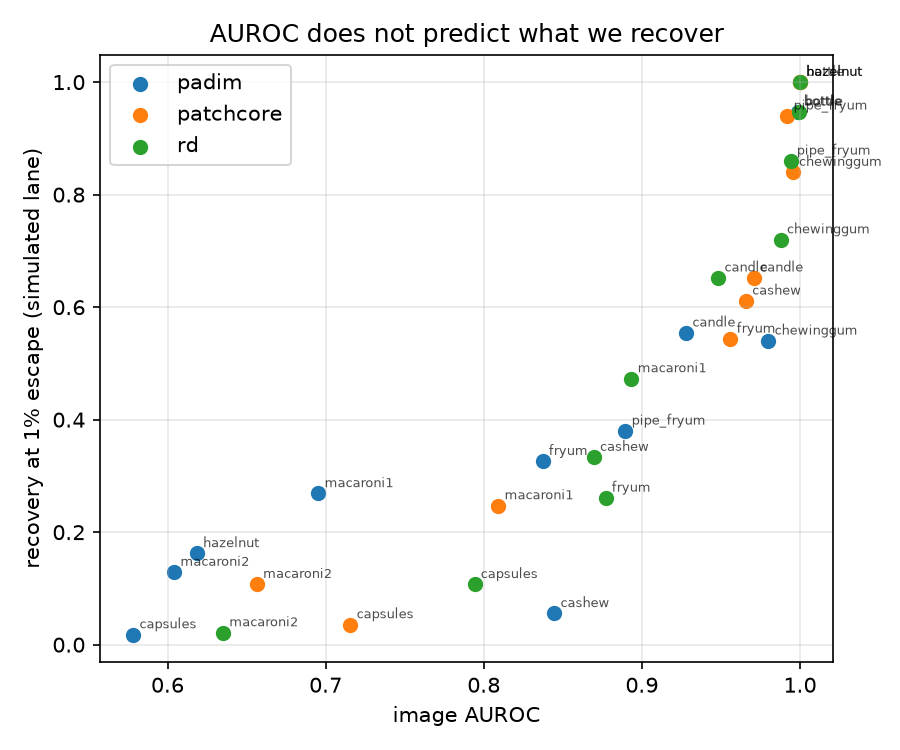
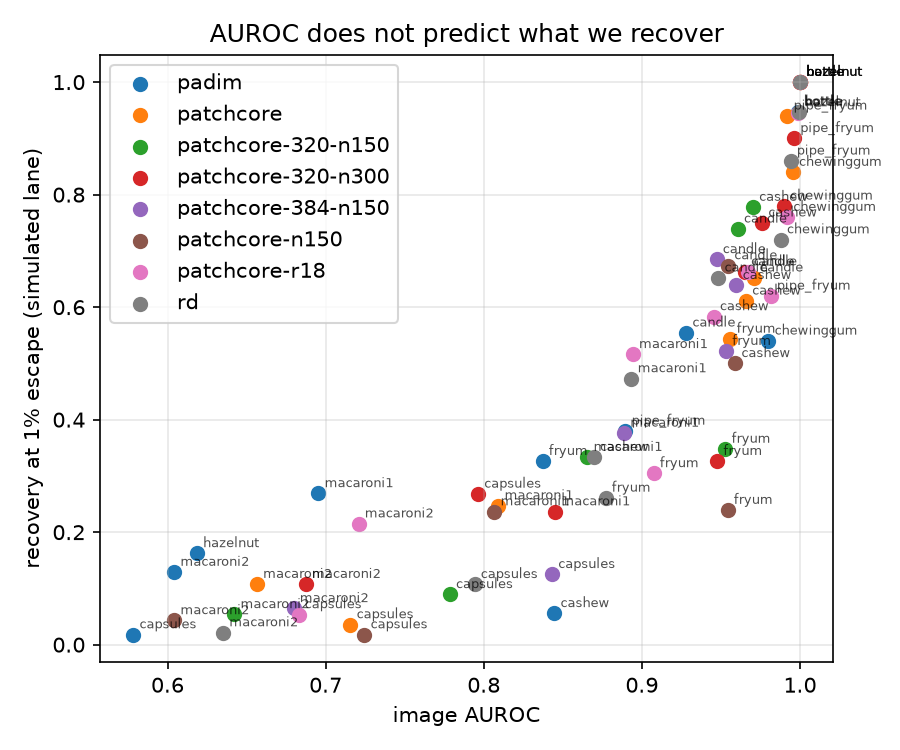
docs: add patchcore resolution and backbone variants

diff --git a/docs/results.md b/docs/results.md
@@ -17,33 +17,71 @@ recovery (auto-good), escape (defects auto-recovered), review (sent to a human).
 |---|---|---|---|---|---|---|---|---|---|---|---|---|---|---|---|---|
 | mvtec | bottle | padim | 20/63 | 1.00 | 0.95 | 0.95 | 1.00 | 0.95 | 0.95 | 0.95 | 1.00 | 0.80 | 0.94 | 0.94 | 1.00 | 10.70 |
 | mvtec | bottle | patchcore | 20/63 | 1.00 | 1.00 | 1.00 | 1.00 | 0.95 | 1.00 | 1.00 | 1.00 | 0.80 | 1.00 | 1.00 | 1.00 | 18.70 |
+| mvtec | bottle | patchcore-320-n300 | 20/63 | 1.00 | 1.00 | 1.00 | 1.00 | 0.95 | 1.00 | 1.00 | 1.00 | 0.80 | 1.00 | 1.00 | 1.00 | 30.70 |
+| mvtec | bottle | patchcore-r18 | 20/63 | 1.00 | 1.00 | 1.00 | 1.00 | 0.95 | 1.00 | 1.00 | 1.00 | 0.80 | 1.00 | 1.00 | 1.00 | 11.30 |
 | mvtec | bottle | rd | 20/63 | 1.00 | 0.95 | 0.95 | 1.00 | 0.95 | 0.95 | 0.95 | 1.00 | 0.80 | 0.94 | 0.94 | 1.00 | 128.20 |
 | mvtec | hazelnut | padim | 40/70 | 0.62 | 0.15 | 0.15 | 0.30 | 0.93 | 0.16 | 0.16 | 0.32 | 0.78 | 0.10 | 0.10 | 0.29 | 13.00 |
 | mvtec | hazelnut | patchcore | 40/70 | 1.00 | 1.00 | 1.00 | 1.00 | 0.93 | 1.00 | 1.00 | 1.00 | 0.78 | 1.00 | 1.00 | 1.00 | 25.80 |
+| mvtec | hazelnut | patchcore-320-n300 | 40/70 | 1.00 | 1.00 | 1.00 | 1.00 | 0.93 | 1.00 | 1.00 | 1.00 | 0.78 | 1.00 | 1.00 | 1.00 | 36.00 |
+| mvtec | hazelnut | patchcore-r18 | 40/70 | 1.00 | 0.95 | 0.95 | 1.00 | 0.93 | 0.95 | 0.95 | 1.00 | 0.78 | 0.94 | 0.94 | 1.00 | 14.40 |
 | mvtec | hazelnut | rd | 40/70 | 1.00 | 1.00 | 1.00 | 1.00 | 0.93 | 1.00 | 1.00 | 1.00 | 0.78 | 1.00 | 1.00 | 1.00 | 130.40 |
 | visa | candle | padim | 100/100 | 0.93 | 0.55 | 0.58 | 0.68 | 0.92 | 0.54 | 0.55 | 0.66 | 0.95 | 0.56 | 0.58 | 0.67 | 8.90 |
 | visa | candle | patchcore | 100/100 | 0.97 | 0.33 | 0.66 | 0.93 | 0.92 | 0.34 | 0.65 | 0.92 | 0.95 | 0.33 | 0.65 | 0.93 | 37.30 |
+| visa | candle | patchcore-320-n150 | 100/100 | 0.96 | 0.38 | 0.75 | 0.85 | 0.92 | 0.38 | 0.74 | 0.85 | 0.95 | 0.38 | 0.74 | 0.84 | 20.20 |
+| visa | candle | patchcore-320-n300 | 100/100 | 0.97 | 0.60 | 0.68 | 0.86 | 0.92 | 0.58 | 0.66 | 0.86 | 0.95 | 0.58 | 0.66 | 0.85 | 31.10 |
+| visa | candle | patchcore-384-n150 | 100/100 | 0.95 | 0.52 | 0.67 | 0.82 | 0.92 | 0.52 | 0.68 | 0.82 | 0.95 | 0.51 | 0.66 | 0.81 | 38.20 |
+| visa | candle | patchcore-n150 | 100/100 | 0.95 | 0.44 | 0.69 | 0.85 | 0.92 | 0.42 | 0.67 | 0.85 | 0.95 | 0.43 | 0.67 | 0.84 | 13.80 |
+| visa | candle | patchcore-r18 | 100/100 | 0.97 | 0.58 | 0.67 | 0.81 | 0.92 | 0.57 | 0.66 | 0.80 | 0.95 | 0.59 | 0.68 | 0.80 | 17.60 |
 | visa | candle | rd | 100/100 | 0.95 | 0.42 | 0.67 | 0.78 | 0.92 | 0.43 | 0.65 | 0.77 | 0.95 | 0.42 | 0.65 | 0.77 | 123.00 |
 | visa | capsules | padim | 60/100 | 0.58 | 0.00 | 0.02 | 0.12 | 0.93 | 0.00 | 0.02 | 0.11 | 0.97 | 0.00 | 0.02 | 0.10 | 10.10 |
 | visa | capsules | patchcore | 60/100 | 0.72 | 0.02 | 0.03 | 0.05 | 0.93 | 0.02 | 0.04 | 0.05 | 0.97 | 0.02 | 0.03 | 0.03 | 25.70 |
+| visa | capsules | patchcore-320-n150 | 60/100 | 0.78 | 0.03 | 0.08 | 0.18 | 0.93 | 0.04 | 0.09 | 0.18 | 0.97 | 0.03 | 0.07 | 0.16 | 21.70 |
+| visa | capsules | patchcore-320-n300 | 60/100 | 0.80 | 0.27 | 0.27 | 0.33 | 0.93 | 0.27 | 0.27 | 0.34 | 0.97 | 0.24 | 0.24 | 0.31 | 31.80 |
+| visa | capsules | patchcore-384-n150 | 60/100 | 0.84 | 0.02 | 0.12 | 0.25 | 0.93 | 0.02 | 0.12 | 0.25 | 0.97 | 0.02 | 0.09 | 0.22 | 39.80 |
+| visa | capsules | patchcore-n150 | 60/100 | 0.72 | 0.02 | 0.02 | 0.15 | 0.93 | 0.02 | 0.02 | 0.16 | 0.97 | 0.02 | 0.02 | 0.14 | 12.60 |
+| visa | capsules | patchcore-r18 | 60/100 | 0.68 | 0.02 | 0.05 | 0.10 | 0.93 | 0.02 | 0.05 | 0.09 | 0.97 | 0.00 | 0.03 | 0.09 | 14.00 |
 | visa | capsules | rd | 60/100 | 0.79 | 0.10 | 0.10 | 0.13 | 0.93 | 0.11 | 0.11 | 0.14 | 0.97 | 0.09 | 0.09 | 0.12 | 131.50 |
 | visa | cashew | padim | 50/100 | 0.84 | 0.06 | 0.20 | 0.28 | 0.72 | 0.00 | 0.06 | 0.17 | 0.78 | 0.03 | 0.15 | 0.26 | 10.90 |
 | visa | cashew | patchcore | 50/100 | 0.97 | 0.66 | 0.66 | 0.80 | 0.72 | 0.61 | 0.61 | 0.78 | 0.78 | 0.62 | 0.62 | 0.77 | 25.10 |
+| visa | cashew | patchcore-320-n150 | 50/100 | 0.97 | 0.44 | 0.78 | 0.84 | 0.72 | 0.39 | 0.78 | 0.81 | 0.78 | 0.38 | 0.77 | 0.82 | 21.30 |
+| visa | cashew | patchcore-320-n300 | 50/100 | 0.98 | 0.52 | 0.82 | 0.88 | 0.72 | 0.53 | 0.75 | 0.83 | 0.78 | 0.46 | 0.77 | 0.85 | 33.00 |
+| visa | cashew | patchcore-384-n150 | 50/100 | 0.96 | 0.24 | 0.66 | 0.78 | 0.72 | 0.17 | 0.64 | 0.75 | 0.78 | 0.18 | 0.67 | 0.77 | 40.50 |
+| visa | cashew | patchcore-n150 | 50/100 | 0.96 | 0.48 | 0.56 | 0.74 | 0.72 | 0.42 | 0.50 | 0.72 | 0.78 | 0.44 | 0.51 | 0.72 | 14.80 |
+| visa | cashew | patchcore-r18 | 50/100 | 0.95 | 0.40 | 0.64 | 0.70 | 0.72 | 0.33 | 0.58 | 0.67 | 0.78 | 0.33 | 0.59 | 0.67 | 12.90 |
 | visa | cashew | rd | 50/100 | 0.87 | 0.38 | 0.38 | 0.52 | 0.72 | 0.33 | 0.33 | 0.50 | 0.78 | 0.41 | 0.41 | 0.54 | 126.80 |
 | visa | chewinggum | padim | 50/100 | 0.98 | 0.46 | 0.54 | 0.92 | 1.00 | 0.46 | 0.54 | 0.92 | 0.86 | 0.47 | 0.53 | 0.91 | 10.40 |
 | visa | chewinggum | patchcore | 50/100 | 1.00 | 0.80 | 0.84 | 1.00 | 1.00 | 0.80 | 0.84 | 1.00 | 0.86 | 0.79 | 0.84 | 1.00 | 24.60 |
+| visa | chewinggum | patchcore-320-n300 | 50/100 | 0.99 | 0.36 | 0.78 | 1.00 | 1.00 | 0.36 | 0.78 | 1.00 | 0.86 | 0.37 | 0.77 | 1.00 | 37.20 |
+| visa | chewinggum | patchcore-r18 | 50/100 | 0.99 | 0.62 | 0.76 | 1.00 | 1.00 | 0.62 | 0.76 | 1.00 | 0.86 | 0.60 | 0.74 | 1.00 | 12.90 |
 | visa | chewinggum | rd | 50/100 | 0.99 | 0.44 | 0.72 | 0.98 | 1.00 | 0.44 | 0.72 | 0.98 | 0.86 | 0.40 | 0.70 | 0.98 | 125.70 |
 | visa | fryum | padim | 50/100 | 0.84 | 0.36 | 0.36 | 0.44 | 0.92 | 0.33 | 0.33 | 0.41 | 0.98 | 0.35 | 0.35 | 0.43 | 9.40 |
 | visa | fryum | patchcore | 50/100 | 0.96 | 0.46 | 0.56 | 0.68 | 0.92 | 0.43 | 0.54 | 0.65 | 0.98 | 0.47 | 0.57 | 0.67 | 22.50 |
+| visa | fryum | patchcore-320-n150 | 50/100 | 0.95 | 0.08 | 0.36 | 0.72 | 0.92 | 0.07 | 0.35 | 0.72 | 0.98 | 0.08 | 0.37 | 0.73 | 21.20 |
+| visa | fryum | patchcore-320-n300 | 50/100 | 0.95 | 0.22 | 0.36 | 0.70 | 0.92 | 0.22 | 0.33 | 0.70 | 0.98 | 0.22 | 0.37 | 0.71 | 33.40 |
+| visa | fryum | patchcore-384-n150 | 50/100 | 0.95 | 0.08 | 0.54 | 0.74 | 0.92 | 0.09 | 0.52 | 0.74 | 0.98 | 0.08 | 0.55 | 0.76 | 38.40 |
+| visa | fryum | patchcore-n150 | 50/100 | 0.95 | 0.26 | 0.28 | 0.76 | 0.92 | 0.22 | 0.24 | 0.76 | 0.98 | 0.27 | 0.29 | 0.78 | 12.50 |
+| visa | fryum | patchcore-r18 | 50/100 | 0.91 | 0.12 | 0.32 | 0.44 | 0.92 | 0.11 | 0.30 | 0.43 | 0.98 | 0.12 | 0.33 | 0.45 | 13.20 |
 | visa | fryum | rd | 50/100 | 0.88 | 0.20 | 0.24 | 0.52 | 0.92 | 0.22 | 0.26 | 0.54 | 0.98 | 0.20 | 0.24 | 0.53 | 124.50 |
 | visa | macaroni1 | padim | 100/100 | 0.70 | 0.20 | 0.28 | 0.38 | 0.93 | 0.19 | 0.27 | 0.37 | 0.99 | 0.20 | 0.28 | 0.38 | 7.90 |
 | visa | macaroni1 | patchcore | 100/100 | 0.81 | 0.16 | 0.24 | 0.38 | 0.93 | 0.16 | 0.25 | 0.39 | 0.99 | 0.16 | 0.24 | 0.38 | 35.10 |
+| visa | macaroni1 | patchcore-320-n150 | 100/100 | 0.87 | 0.22 | 0.33 | 0.58 | 0.93 | 0.24 | 0.33 | 0.56 | 0.99 | 0.22 | 0.33 | 0.58 | 20.70 |
+| visa | macaroni1 | patchcore-320-n300 | 100/100 | 0.85 | 0.21 | 0.23 | 0.51 | 0.93 | 0.22 | 0.24 | 0.51 | 0.99 | 0.21 | 0.23 | 0.51 | 30.90 |
+| visa | macaroni1 | patchcore-384-n150 | 100/100 | 0.89 | 0.33 | 0.39 | 0.63 | 0.93 | 0.32 | 0.38 | 0.61 | 0.99 | 0.32 | 0.38 | 0.63 | 36.10 |
+| visa | macaroni1 | patchcore-n150 | 100/100 | 0.81 | 0.13 | 0.24 | 0.37 | 0.93 | 0.13 | 0.24 | 0.35 | 0.99 | 0.13 | 0.24 | 0.36 | 12.60 |
+| visa | macaroni1 | patchcore-r18 | 100/100 | 0.89 | 0.27 | 0.53 | 0.61 | 0.93 | 0.26 | 0.52 | 0.60 | 0.99 | 0.27 | 0.54 | 0.62 | 17.40 |
 | visa | macaroni1 | rd | 100/100 | 0.89 | 0.31 | 0.48 | 0.64 | 0.93 | 0.31 | 0.47 | 0.62 | 0.99 | 0.31 | 0.48 | 0.64 | 123.10 |
 | visa | macaroni2 | padim | 100/100 | 0.60 | 0.12 | 0.14 | 0.15 | 0.93 | 0.11 | 0.13 | 0.14 | 0.96 | 0.10 | 0.12 | 0.14 | 8.00 |
 | visa | macaroni2 | patchcore | 100/100 | 0.66 | 0.02 | 0.11 | 0.15 | 0.93 | 0.02 | 0.11 | 0.15 | 0.96 | 0.02 | 0.10 | 0.15 | 35.50 |
+| visa | macaroni2 | patchcore-320-n150 | 100/100 | 0.64 | 0.00 | 0.06 | 0.21 | 0.93 | 0.00 | 0.05 | 0.20 | 0.96 | 0.00 | 0.05 | 0.20 | 20.00 |
+| visa | macaroni2 | patchcore-320-n300 | 100/100 | 0.69 | 0.00 | 0.12 | 0.27 | 0.93 | 0.00 | 0.11 | 0.26 | 0.96 | 0.00 | 0.10 | 0.26 | 31.20 |
+| visa | macaroni2 | patchcore-384-n150 | 100/100 | 0.68 | 0.00 | 0.07 | 0.12 | 0.93 | 0.00 | 0.06 | 0.12 | 0.96 | 0.00 | 0.06 | 0.11 | 34.20 |
+| visa | macaroni2 | patchcore-n150 | 100/100 | 0.60 | 0.03 | 0.05 | 0.17 | 0.93 | 0.02 | 0.04 | 0.16 | 0.96 | 0.02 | 0.04 | 0.17 | 11.80 |
+| visa | macaroni2 | patchcore-r18 | 100/100 | 0.72 | 0.04 | 0.23 | 0.31 | 0.93 | 0.03 | 0.22 | 0.30 | 0.96 | 0.03 | 0.22 | 0.30 | 18.00 |
 | visa | macaroni2 | rd | 100/100 | 0.64 | 0.00 | 0.02 | 0.14 | 0.93 | 0.00 | 0.02 | 0.14 | 0.96 | 0.00 | 0.02 | 0.15 | 125.40 |
 | visa | pipe_fryum | padim | 50/100 | 0.89 | 0.34 | 0.38 | 0.54 | 1.00 | 0.34 | 0.38 | 0.54 | 1.00 | 0.34 | 0.38 | 0.54 | 9.80 |
 | visa | pipe_fryum | patchcore | 50/100 | 0.99 | 0.68 | 0.94 | 0.94 | 1.00 | 0.68 | 0.94 | 0.94 | 1.00 | 0.68 | 0.94 | 0.94 | 22.80 |
+| visa | pipe_fryum | patchcore-320-n300 | 50/100 | 1.00 | 0.86 | 0.90 | 0.98 | 1.00 | 0.86 | 0.90 | 0.98 | 1.00 | 0.86 | 0.90 | 0.98 | 31.70 |
+| visa | pipe_fryum | patchcore-r18 | 50/100 | 0.98 | 0.34 | 0.62 | 0.96 | 1.00 | 0.34 | 0.62 | 0.96 | 1.00 | 0.34 | 0.62 | 0.96 | 12.60 |
 | visa | pipe_fryum | rd | 50/100 | 0.99 | 0.86 | 0.86 | 0.96 | 1.00 | 0.86 | 0.86 | 0.96 | 1.00 | 0.86 | 0.86 | 0.96 | 133.30 |
 
 ## Calibrated band on the lane (held-out folds, escape target 1%)
@@ -54,60 +92,136 @@ recovery (auto-good), escape (defects auto-recovered), review (sent to a human).
 | mvtec | bottle | padim | pca | 16 | 0.93 | 0.02 | 0.00 | 0.98 | 0.06 |
 | mvtec | bottle | patchcore | template | 19 | 1.00 | 0.03 | 0.00 | 1.00 | 0.06 |
 | mvtec | bottle | patchcore | pca | 16 | 1.00 | 0.03 | 0.00 | 1.00 | 0.06 |
+| mvtec | bottle | patchcore-320-n300 | template | 19 | 1.00 | 0.02 | 0.00 | 1.00 | 0.06 |
+| mvtec | bottle | patchcore-320-n300 | pca | 16 | 1.00 | 0.02 | 0.00 | 1.00 | 0.06 |
+| mvtec | bottle | patchcore-r18 | template | 19 | 1.00 | 0.02 | 0.00 | 1.00 | 0.06 |
+| mvtec | bottle | patchcore-r18 | pca | 16 | 1.00 | 0.02 | 0.00 | 1.00 | 0.06 |
 | mvtec | bottle | rd | template | 19 | 1.00 | 0.02 | 0.00 | 1.00 | 0.06 |
 | mvtec | bottle | rd | pca | 16 | 0.93 | 0.02 | 0.00 | 0.99 | 0.06 |
 | mvtec | hazelnut | padim | template | 37 | 0.16 | 0.01 | 0.89 | 0.83 | 0.05 |
 | mvtec | hazelnut | padim | pca | 31 | 0.10 | 0.01 | 0.90 | 0.89 | 0.05 |
 | mvtec | hazelnut | patchcore | template | 37 | 1.00 | 0.01 | 0.00 | 1.00 | 0.05 |
 | mvtec | hazelnut | patchcore | pca | 31 | 1.00 | 0.01 | 0.00 | 1.00 | 0.05 |
+| mvtec | hazelnut | patchcore-320-n300 | template | 37 | 1.00 | 0.03 | 0.00 | 1.00 | 0.05 |
+| mvtec | hazelnut | patchcore-320-n300 | pca | 31 | 1.00 | 0.03 | 0.00 | 1.00 | 0.05 |
+| mvtec | hazelnut | patchcore-r18 | template | 37 | 0.95 | 0.01 | 0.01 | 0.99 | 0.05 |
+| mvtec | hazelnut | patchcore-r18 | pca | 31 | 0.93 | 0.01 | 0.01 | 0.99 | 0.05 |
 | mvtec | hazelnut | rd | template | 37 | 1.00 | 0.01 | 0.00 | 1.00 | 0.05 |
 | mvtec | hazelnut | rd | pca | 31 | 1.00 | 0.01 | 0.00 | 1.00 | 0.05 |
 | visa | candle | padim | template | 92 | 0.55 | 0.02 | 0.41 | 0.97 | 0.04 |
 | visa | candle | padim | pca | 95 | 0.57 | 0.02 | 0.38 | 0.96 | 0.04 |
 | visa | candle | patchcore | template | 92 | 0.38 | 0.01 | 0.41 | 0.96 | 0.04 |
 | visa | candle | patchcore | pca | 95 | 0.37 | 0.01 | 0.42 | 0.96 | 0.04 |
+| visa | candle | patchcore-320-n150 | template | 92 | 0.45 | 0.01 | 0.43 | 0.97 | 0.04 |
+| visa | candle | patchcore-320-n150 | pca | 95 | 0.42 | 0.01 | 0.45 | 0.96 | 0.04 |
+| visa | candle | patchcore-320-n300 | template | 92 | 0.57 | 0.01 | 0.35 | 0.96 | 0.04 |
+| visa | candle | patchcore-320-n300 | pca | 95 | 0.60 | 0.01 | 0.36 | 0.97 | 0.04 |
+| visa | candle | patchcore-384-n150 | template | 92 | 0.55 | 0.01 | 0.40 | 0.97 | 0.04 |
+| visa | candle | patchcore-384-n150 | pca | 95 | 0.54 | 0.01 | 0.39 | 0.95 | 0.04 |
+| visa | candle | patchcore-n150 | template | 92 | 0.49 | 0.02 | 0.46 | 0.97 | 0.04 |
+| visa | candle | patchcore-n150 | pca | 95 | 0.51 | 0.02 | 0.45 | 0.96 | 0.04 |
+| visa | candle | patchcore-r18 | template | 92 | 0.59 | 0.01 | 0.32 | 0.97 | 0.04 |
+| visa | candle | patchcore-r18 | pca | 95 | 0.60 | 0.01 | 0.32 | 0.97 | 0.04 |
 | visa | candle | rd | template | 92 | 0.51 | 0.01 | 0.45 | 0.97 | 0.04 |
 | visa | candle | rd | pca | 95 | 0.44 | 0.01 | 0.47 | 0.96 | 0.04 |
 | visa | capsules | padim | template | 56 | 0.00 | 0.01 | 0.88 | 0.88 | 0.04 |
 | visa | capsules | padim | pca | 58 | 0.02 | 0.01 | 0.89 | 0.88 | 0.04 |
 | visa | capsules | patchcore | template | 56 | 0.02 | 0.01 | 0.71 | 0.95 | 0.04 |
 | visa | capsules | patchcore | pca | 58 | 0.02 | 0.01 | 0.71 | 0.96 | 0.04 |
+| visa | capsules | patchcore-320-n150 | template | 56 | 0.03 | 0.01 | 0.72 | 0.95 | 0.04 |
+| visa | capsules | patchcore-320-n150 | pca | 58 | 0.05 | 0.01 | 0.72 | 0.93 | 0.04 |
+| visa | capsules | patchcore-320-n300 | template | 56 | 0.27 | 0.01 | 0.62 | 0.95 | 0.04 |
+| visa | capsules | patchcore-320-n300 | pca | 58 | 0.24 | 0.01 | 0.63 | 0.95 | 0.04 |
+| visa | capsules | patchcore-384-n150 | template | 56 | 0.03 | 0.01 | 0.61 | 0.95 | 0.04 |
+| visa | capsules | patchcore-384-n150 | pca | 58 | 0.03 | 0.01 | 0.62 | 0.93 | 0.04 |
+| visa | capsules | patchcore-n150 | template | 56 | 0.02 | 0.01 | 0.73 | 0.96 | 0.04 |
+| visa | capsules | patchcore-n150 | pca | 58 | 0.02 | 0.01 | 0.73 | 0.96 | 0.04 |
+| visa | capsules | patchcore-r18 | template | 56 | 0.02 | 0.01 | 0.76 | 0.96 | 0.04 |
+| visa | capsules | patchcore-r18 | pca | 58 | 0.00 | 0.01 | 0.77 | 0.95 | 0.04 |
 | visa | capsules | rd | template | 56 | 0.10 | 0.01 | 0.67 | 0.96 | 0.04 |
 | visa | capsules | rd | pca | 58 | 0.08 | 0.01 | 0.67 | 0.96 | 0.04 |
 | visa | cashew | padim | template | 36 | 0.03 | 0.01 | 0.60 | 0.98 | 0.04 |
 | visa | cashew | padim | pca | 39 | 0.05 | 0.01 | 0.60 | 0.98 | 0.04 |
 | visa | cashew | patchcore | template | 36 | 0.61 | 0.01 | 0.24 | 0.98 | 0.04 |
 | visa | cashew | patchcore | pca | 39 | 0.61 | 0.01 | 0.24 | 0.97 | 0.04 |
+| visa | cashew | patchcore-320-n150 | template | 36 | 0.45 | 0.01 | 0.28 | 0.98 | 0.04 |
+| visa | cashew | patchcore-320-n150 | pca | 39 | 0.45 | 0.01 | 0.27 | 0.98 | 0.04 |
+| visa | cashew | patchcore-320-n300 | template | 36 | 0.61 | 0.01 | 0.25 | 0.99 | 0.04 |
+| visa | cashew | patchcore-320-n300 | pca | 39 | 0.54 | 0.01 | 0.24 | 0.98 | 0.04 |
+| visa | cashew | patchcore-384-n150 | template | 36 | 0.29 | 0.02 | 0.33 | 0.97 | 0.04 |
+| visa | cashew | patchcore-384-n150 | pca | 39 | 0.23 | 0.02 | 0.36 | 0.98 | 0.04 |
+| visa | cashew | patchcore-n150 | template | 36 | 0.44 | 0.01 | 0.29 | 0.97 | 0.04 |
+| visa | cashew | patchcore-n150 | pca | 39 | 0.51 | 0.01 | 0.28 | 0.97 | 0.04 |
+| visa | cashew | patchcore-r18 | template | 36 | 0.45 | 0.01 | 0.36 | 0.97 | 0.04 |
+| visa | cashew | patchcore-r18 | pca | 39 | 0.41 | 0.01 | 0.34 | 0.95 | 0.04 |
 | visa | cashew | rd | template | 36 | 0.33 | 0.01 | 0.51 | 0.95 | 0.04 |
 | visa | cashew | rd | pca | 39 | 0.41 | 0.01 | 0.50 | 0.97 | 0.04 |
 | visa | chewinggum | padim | template | 50 | 0.48 | 0.01 | 0.21 | 0.98 | 0.04 |
 | visa | chewinggum | padim | pca | 43 | 0.49 | 0.01 | 0.20 | 0.97 | 0.04 |
 | visa | chewinggum | patchcore | template | 50 | 0.82 | 0.01 | 0.06 | 0.98 | 0.04 |
 | visa | chewinggum | patchcore | pca | 43 | 0.79 | 0.01 | 0.06 | 0.97 | 0.04 |
+| visa | chewinggum | patchcore-320-n300 | template | 50 | 0.42 | 0.01 | 0.20 | 0.98 | 0.04 |
+| visa | chewinggum | patchcore-320-n300 | pca | 43 | 0.40 | 0.01 | 0.18 | 0.98 | 0.04 |
+| visa | chewinggum | patchcore-r18 | template | 50 | 0.62 | 0.02 | 0.13 | 0.98 | 0.04 |
+| visa | chewinggum | patchcore-r18 | pca | 43 | 0.63 | 0.02 | 0.12 | 0.99 | 0.04 |
 | visa | chewinggum | rd | template | 50 | 0.48 | 0.01 | 0.19 | 0.99 | 0.04 |
 | visa | chewinggum | rd | pca | 43 | 0.44 | 0.01 | 0.18 | 0.98 | 0.04 |
 | visa | fryum | padim | template | 46 | 0.33 | 0.01 | 0.66 | 0.95 | 0.04 |
 | visa | fryum | padim | pca | 49 | 0.35 | 0.01 | 0.67 | 0.96 | 0.04 |
 | visa | fryum | patchcore | template | 46 | 0.50 | 0.03 | 0.23 | 0.99 | 0.04 |
 | visa | fryum | patchcore | pca | 49 | 0.51 | 0.03 | 0.24 | 0.99 | 0.04 |
+| visa | fryum | patchcore-320-n150 | template | 46 | 0.18 | 0.02 | 0.36 | 0.97 | 0.04 |
+| visa | fryum | patchcore-320-n150 | pca | 49 | 0.18 | 0.02 | 0.37 | 0.98 | 0.04 |
+| visa | fryum | patchcore-320-n300 | template | 46 | 0.22 | 0.01 | 0.34 | 0.96 | 0.04 |
+| visa | fryum | patchcore-320-n300 | pca | 49 | 0.22 | 0.01 | 0.36 | 0.98 | 0.04 |
+| visa | fryum | patchcore-384-n150 | template | 46 | 0.18 | 0.01 | 0.38 | 0.96 | 0.04 |
+| visa | fryum | patchcore-384-n150 | pca | 49 | 0.16 | 0.01 | 0.40 | 0.98 | 0.04 |
+| visa | fryum | patchcore-n150 | template | 46 | 0.29 | 0.02 | 0.32 | 0.98 | 0.04 |
+| visa | fryum | patchcore-n150 | pca | 49 | 0.30 | 0.02 | 0.32 | 0.98 | 0.04 |
+| visa | fryum | patchcore-r18 | template | 46 | 0.16 | 0.02 | 0.45 | 0.97 | 0.04 |
+| visa | fryum | patchcore-r18 | pca | 49 | 0.18 | 0.02 | 0.44 | 0.98 | 0.04 |
 | visa | fryum | rd | template | 46 | 0.24 | 0.01 | 0.54 | 0.97 | 0.04 |
 | visa | fryum | rd | pca | 49 | 0.22 | 0.01 | 0.52 | 0.98 | 0.04 |
 | visa | macaroni1 | padim | template | 93 | 0.20 | 0.01 | 0.84 | 0.50 | 0.04 |
 | visa | macaroni1 | padim | pca | 99 | 0.21 | 0.01 | 0.84 | 0.46 | 0.04 |
 | visa | macaroni1 | patchcore | template | 93 | 0.19 | 0.02 | 0.71 | 0.93 | 0.04 |
 | visa | macaroni1 | patchcore | pca | 99 | 0.16 | 0.02 | 0.73 | 0.93 | 0.04 |
+| visa | macaroni1 | patchcore-320-n150 | template | 93 | 0.27 | 0.02 | 0.66 | 0.93 | 0.04 |
+| visa | macaroni1 | patchcore-320-n150 | pca | 99 | 0.25 | 0.02 | 0.68 | 0.94 | 0.04 |
+| visa | macaroni1 | patchcore-320-n300 | template | 93 | 0.22 | 0.01 | 0.72 | 0.93 | 0.04 |
+| visa | macaroni1 | patchcore-320-n300 | pca | 99 | 0.22 | 0.01 | 0.71 | 0.94 | 0.04 |
+| visa | macaroni1 | patchcore-384-n150 | template | 93 | 0.32 | 0.01 | 0.62 | 0.95 | 0.04 |
+| visa | macaroni1 | patchcore-384-n150 | pca | 99 | 0.33 | 0.01 | 0.61 | 0.95 | 0.04 |
+| visa | macaroni1 | patchcore-n150 | template | 93 | 0.17 | 0.01 | 0.70 | 0.94 | 0.04 |
+| visa | macaroni1 | patchcore-n150 | pca | 99 | 0.13 | 0.01 | 0.73 | 0.94 | 0.04 |
+| visa | macaroni1 | patchcore-r18 | template | 93 | 0.31 | 0.02 | 0.68 | 0.96 | 0.04 |
+| visa | macaroni1 | patchcore-r18 | pca | 99 | 0.30 | 0.02 | 0.67 | 0.94 | 0.04 |
 | visa | macaroni1 | rd | template | 93 | 0.34 | 0.01 | 0.60 | 0.94 | 0.04 |
 | visa | macaroni1 | rd | pca | 99 | 0.35 | 0.01 | 0.59 | 0.95 | 0.04 |
 | visa | macaroni2 | padim | template | 93 | 0.11 | 0.01 | 0.88 | 0.84 | 0.04 |
 | visa | macaroni2 | padim | pca | 96 | 0.11 | 0.01 | 0.88 | 0.75 | 0.04 |
 | visa | macaroni2 | patchcore | template | 93 | 0.02 | 0.01 | 0.88 | 0.86 | 0.04 |
 | visa | macaroni2 | patchcore | pca | 96 | 0.04 | 0.01 | 0.88 | 0.89 | 0.04 |
+| visa | macaroni2 | patchcore-320-n150 | template | 93 | 0.00 | 0.01 | 0.92 | 0.90 | 0.04 |
+| visa | macaroni2 | patchcore-320-n150 | pca | 96 | 0.01 | 0.01 | 0.91 | 0.79 | 0.04 |
+| visa | macaroni2 | patchcore-320-n300 | template | 93 | 0.01 | 0.01 | 0.92 | 0.85 | 0.04 |
+| visa | macaroni2 | patchcore-320-n300 | pca | 96 | 0.02 | 0.01 | 0.93 | 0.78 | 0.04 |
+| visa | macaroni2 | patchcore-384-n150 | template | 93 | 0.00 | 0.01 | 0.86 | 0.88 | 0.04 |
+| visa | macaroni2 | patchcore-384-n150 | pca | 96 | 0.01 | 0.01 | 0.87 | 0.89 | 0.04 |
+| visa | macaroni2 | patchcore-n150 | template | 93 | 0.02 | 0.01 | 0.93 | 0.73 | 0.04 |
+| visa | macaroni2 | patchcore-n150 | pca | 96 | 0.03 | 0.01 | 0.92 | 0.80 | 0.04 |
+| visa | macaroni2 | patchcore-r18 | template | 93 | 0.07 | 0.02 | 0.85 | 0.89 | 0.04 |
+| visa | macaroni2 | patchcore-r18 | pca | 96 | 0.03 | 0.02 | 0.87 | 0.89 | 0.04 |
 | visa | macaroni2 | rd | template | 93 | 0.01 | 0.01 | 0.91 | 0.72 | 0.04 |
 | visa | macaroni2 | rd | pca | 96 | 0.01 | 0.01 | 0.92 | 0.82 | 0.04 |
 | visa | pipe_fryum | padim | template | 50 | 0.36 | 0.01 | 0.55 | 0.98 | 0.04 |
 | visa | pipe_fryum | padim | pca | 50 | 0.36 | 0.01 | 0.55 | 0.98 | 0.04 |
 | visa | pipe_fryum | patchcore | template | 50 | 0.76 | 0.01 | 0.09 | 0.98 | 0.04 |
 | visa | pipe_fryum | patchcore | pca | 50 | 0.76 | 0.01 | 0.09 | 0.98 | 0.04 |
+| visa | pipe_fryum | patchcore-320-n300 | template | 50 | 0.88 | 0.01 | 0.03 | 0.97 | 0.04 |
+| visa | pipe_fryum | patchcore-320-n300 | pca | 50 | 0.88 | 0.01 | 0.03 | 0.97 | 0.04 |
+| visa | pipe_fryum | patchcore-r18 | template | 50 | 0.40 | 0.01 | 0.25 | 0.97 | 0.04 |
+| visa | pipe_fryum | patchcore-r18 | pca | 50 | 0.40 | 0.01 | 0.25 | 0.97 | 0.04 |
 | visa | pipe_fryum | rd | template | 50 | 0.86 | 0.01 | 0.05 | 0.96 | 0.04 |
 | visa | pipe_fryum | rd | pca | 50 | 0.86 | 0.01 | 0.05 | 0.96 | 0.04 |
 
@@ -141,6 +255,44 @@ Figures: `docs/figures/auroc_vs_recovery.png`, `docs/figures/recovery_curves.png
 | macaroni1 | patchcore | 93 | 0.19 | 0.02 | 0.06 | 0.02 | 0.12 | 0.67 |
 | macaroni2 | patchcore | 93 | 0.02 | 0.01 | 0.00 | 0.02 | 0.03 | 0.57 |
 | pipe_fryum | patchcore | 50 | 0.76 | 0.01 | 0.50 | 0.01 | 0.20 | 0.94 |
+| candle | patchcore-320-n150 | 92 | 0.45 | 0.01 | 0.25 | 0.02 | 0.33 | 0.87 |
+| capsules | patchcore-320-n150 | 56 | 0.03 | 0.01 | 0.05 | 0.01 | 0.03 | 0.64 |
+| cashew | patchcore-320-n150 | 36 | 0.45 | 0.01 | 0.50 | 0.01 | 0.04 | 0.89 |
+| fryum | patchcore-320-n150 | 46 | 0.18 | 0.02 | 0.76 | 0.01 | 0.22 | 0.90 |
+| macaroni1 | patchcore-320-n150 | 93 | 0.27 | 0.02 | 0.03 | 0.00 | 0.12 | 0.68 |
+| macaroni2 | patchcore-320-n150 | 93 | 0.00 | 0.01 | 0.07 | 0.00 | 0.02 | 0.55 |
+| bottle | patchcore-320-n300 | 19 | 1.00 | 0.02 | 1.00 | 0.02 | 0.46 | 1.00 |
+| hazelnut | patchcore-320-n300 | 37 | 1.00 | 0.03 | 1.00 | 0.00 | 0.46 | 1.00 |
+| candle | patchcore-320-n300 | 92 | 0.57 | 0.01 | 0.34 | 0.01 | 0.34 | 0.88 |
+| capsules | patchcore-320-n300 | 56 | 0.27 | 0.01 | 0.04 | 0.00 | 0.03 | 0.66 |
+| cashew | patchcore-320-n300 | 36 | 0.61 | 0.01 | 0.75 | 0.00 | 0.06 | 0.91 |
+| chewinggum | patchcore-320-n300 | 50 | 0.42 | 0.01 | 0.32 | 0.01 | 0.31 | 0.94 |
+| fryum | patchcore-320-n300 | 46 | 0.22 | 0.01 | 0.67 | 0.01 | 0.21 | 0.89 |
+| macaroni1 | patchcore-320-n300 | 93 | 0.22 | 0.01 | 0.13 | 0.00 | 0.13 | 0.66 |
+| macaroni2 | patchcore-320-n300 | 93 | 0.01 | 0.01 | 0.00 | 0.00 | 0.03 | 0.59 |
+| pipe_fryum | patchcore-320-n300 | 50 | 0.88 | 0.01 | 0.24 | 0.00 | 0.25 | 0.94 |
+| candle | patchcore-384-n150 | 92 | 0.55 | 0.01 | 0.12 | 0.00 | 0.33 | 0.87 |
+| capsules | patchcore-384-n150 | 56 | 0.03 | 0.01 | 0.00 | 0.02 | 0.06 | 0.67 |
+| cashew | patchcore-384-n150 | 36 | 0.29 | 0.02 | 0.42 | 0.00 | 0.05 | 0.88 |
+| fryum | patchcore-384-n150 | 46 | 0.18 | 0.01 | 0.64 | 0.01 | 0.25 | 0.92 |
+| macaroni1 | patchcore-384-n150 | 93 | 0.32 | 0.01 | 0.16 | 0.00 | 0.14 | 0.70 |
+| macaroni2 | patchcore-384-n150 | 93 | 0.00 | 0.01 | 0.02 | 0.01 | 0.02 | 0.56 |
+| candle | patchcore-n150 | 92 | 0.49 | 0.02 | 0.28 | 0.01 | 0.31 | 0.89 |
+| capsules | patchcore-n150 | 56 | 0.02 | 0.01 | 0.00 | 0.00 | 0.02 | 0.62 |
+| cashew | patchcore-n150 | 36 | 0.44 | 0.01 | 0.56 | 0.01 | 0.04 | 0.90 |
+| fryum | patchcore-n150 | 46 | 0.29 | 0.02 | 0.54 | 0.02 | 0.18 | 0.86 |
+| macaroni1 | patchcore-n150 | 93 | 0.17 | 0.01 | 0.08 | 0.02 | 0.09 | 0.64 |
+| macaroni2 | patchcore-n150 | 93 | 0.02 | 0.01 | 0.02 | 0.01 | 0.02 | 0.53 |
+| bottle | patchcore-r18 | 19 | 1.00 | 0.02 | 1.00 | 0.02 | 0.43 | 0.99 |
+| hazelnut | patchcore-r18 | 37 | 0.95 | 0.01 | 0.70 | 0.01 | 0.38 | 0.97 |
+| candle | patchcore-r18 | 92 | 0.59 | 0.01 | 0.36 | 0.02 | 0.32 | 0.88 |
+| capsules | patchcore-r18 | 56 | 0.02 | 0.01 | 0.02 | 0.01 | 0.01 | 0.64 |
+| cashew | patchcore-r18 | 36 | 0.45 | 0.01 | 0.59 | 0.00 | 0.02 | 0.88 |
+| chewinggum | patchcore-r18 | 50 | 0.62 | 0.02 | 0.36 | 0.00 | 0.26 | 0.93 |
+| fryum | patchcore-r18 | 46 | 0.16 | 0.02 | 0.37 | 0.01 | 0.12 | 0.83 |
+| macaroni1 | patchcore-r18 | 93 | 0.31 | 0.02 | 0.06 | 0.00 | 0.18 | 0.74 |
+| macaroni2 | patchcore-r18 | 93 | 0.07 | 0.02 | 0.02 | 0.01 | 0.05 | 0.62 |
+| pipe_fryum | patchcore-r18 | 50 | 0.40 | 0.01 | 0.26 | 0.01 | 0.21 | 0.89 |
 | bottle | rd | 19 | 1.00 | 0.02 | 0.95 | 0.02 | 0.34 | 0.97 |
 | hazelnut | rd | 37 | 1.00 | 0.01 | 1.00 | 0.00 | 0.44 | 1.00 |
 | candle | rd | 92 | 0.51 | 0.01 | 0.38 | 0.01 | 0.29 | 0.87 |

diff --git a/docs/variants.md b/docs/variants.md
@@ -1,0 +1,48 @@
+# PatchCore variants: resolution, training subset, backbone
+
+Generated from `results/*.json` (recovery of goods at 1% escape, all test goods). Baseline is
+wide_resnet50_2 at 256 px on the full training split. `n150`/`n300` = random 150/300 training
+images (seeded); `r18` = resnet18 backbone at 256 px. The 256 n150 column is the control that
+separates the cost of fewer training images from the effect of resolution.
+
+| dataset | category | 256 all | 256 n150 | 320 n150 | 384 n150 | 320 n300 | 256 r18 | best |
+|---|---|---|---|---|---|---|---|---|
+| mvtec | bottle | 1.00 |  |  |  | 1.00 | 1.00 | 320 n300 (1.00) |
+| mvtec | hazelnut | 1.00 |  |  |  | 1.00 | 0.95 | 320 n300 (1.00) |
+| visa | candle | 0.66 | 0.69 | 0.75 | 0.67 | 0.68 | 0.67 | 320 n150 (0.75) |
+| visa | capsules | 0.03 | 0.02 | 0.08 | 0.12 | 0.27 | 0.05 | 320 n300 (0.27) |
+| visa | cashew | 0.66 | 0.56 | 0.78 | 0.66 | 0.82 | 0.64 | 320 n300 (0.82) |
+| visa | chewinggum | 0.84 |  |  |  | 0.78 | 0.76 | 256 all (0.84) |
+| visa | fryum | 0.56 | 0.28 | 0.36 | 0.54 | 0.36 | 0.32 | 256 all (0.56) |
+| visa | macaroni1 | 0.24 | 0.24 | 0.33 | 0.39 | 0.23 | 0.53 | 256 r18 (0.53) |
+| visa | macaroni2 | 0.11 | 0.05 | 0.06 | 0.07 | 0.12 | 0.23 | 256 r18 (0.23) |
+| visa | pipe_fryum | 0.94 |  |  |  | 0.90 | 0.62 | 256 all (0.94) |
+
+## Cost per variant (mean over categories)
+
+| variant | ms/img | fit s | peak VRAM GiB | train imgs |
+|---|---|---|---|---|
+| 256 all | 27 | 313 |  | nan |
+| 256 n150 | 13 | 23 | 1.85 | 150 |
+| 320 n150 | 21 | 51 | 2.84 | 150 |
+| 384 n150 | 38 | 108 | 4.05 | 150 |
+| 320 n300 | 33 | 176 | 5.42 | 291 |
+| 256 r18 | 14 | 311 | 2.32 | 564 |
+
+## Reading
+
+- **Resolution helps where the defect is small relative to the item**: cashew 0.66 -> 0.82 (320 n300),
+  capsules 0.03 -> 0.27 (320 n300), macaroni1 0.24 -> 0.39 (384 n150), candle 0.66 -> 0.75 (320 n150).
+  It does not rescue the multi-instance trays: macaroni2 and capsules stay below 0.3 at every setting.
+- **Fewer training images cost real recovery on textured items**: the 256 n150 control drops cashew
+  0.66 -> 0.56 and fryum 0.56 -> 0.28. Fryum's apparent loss at 320 px is this subset cost, not resolution.
+  For a line this means: collect several hundred goods before trusting the thresholds.
+- **Backbone is a per-category choice**: resnet18 doubles macaroni1 (0.24 -> 0.53) and macaroni2
+  (0.11 -> 0.23) at half the latency (14 vs 27 ms/img), but loses on pipe_fryum (0.94 -> 0.62),
+  chewinggum and hazelnut. There is no single best feature extractor; the per-line pilot picks it.
+- **Memory**: anomalib keeps every training patch on the GPU and grows the bank with torch.cat, so peak
+  VRAM is about twice the bank (train imgs x patches x 1536 x 4 B). 384 px with 300 images already
+  exceeds 9.5 GiB; keep resolution x images in budget or subsample patches, not images.
+- Tiers hold: rigid objects (bottle, hazelnut) are solved at any setting; textured single items land
+  0.4-0.9 and move with resolution and data; multi-instance trays need a different approach
+  (per-instance crops or detection first), not a bigger PatchCore.
